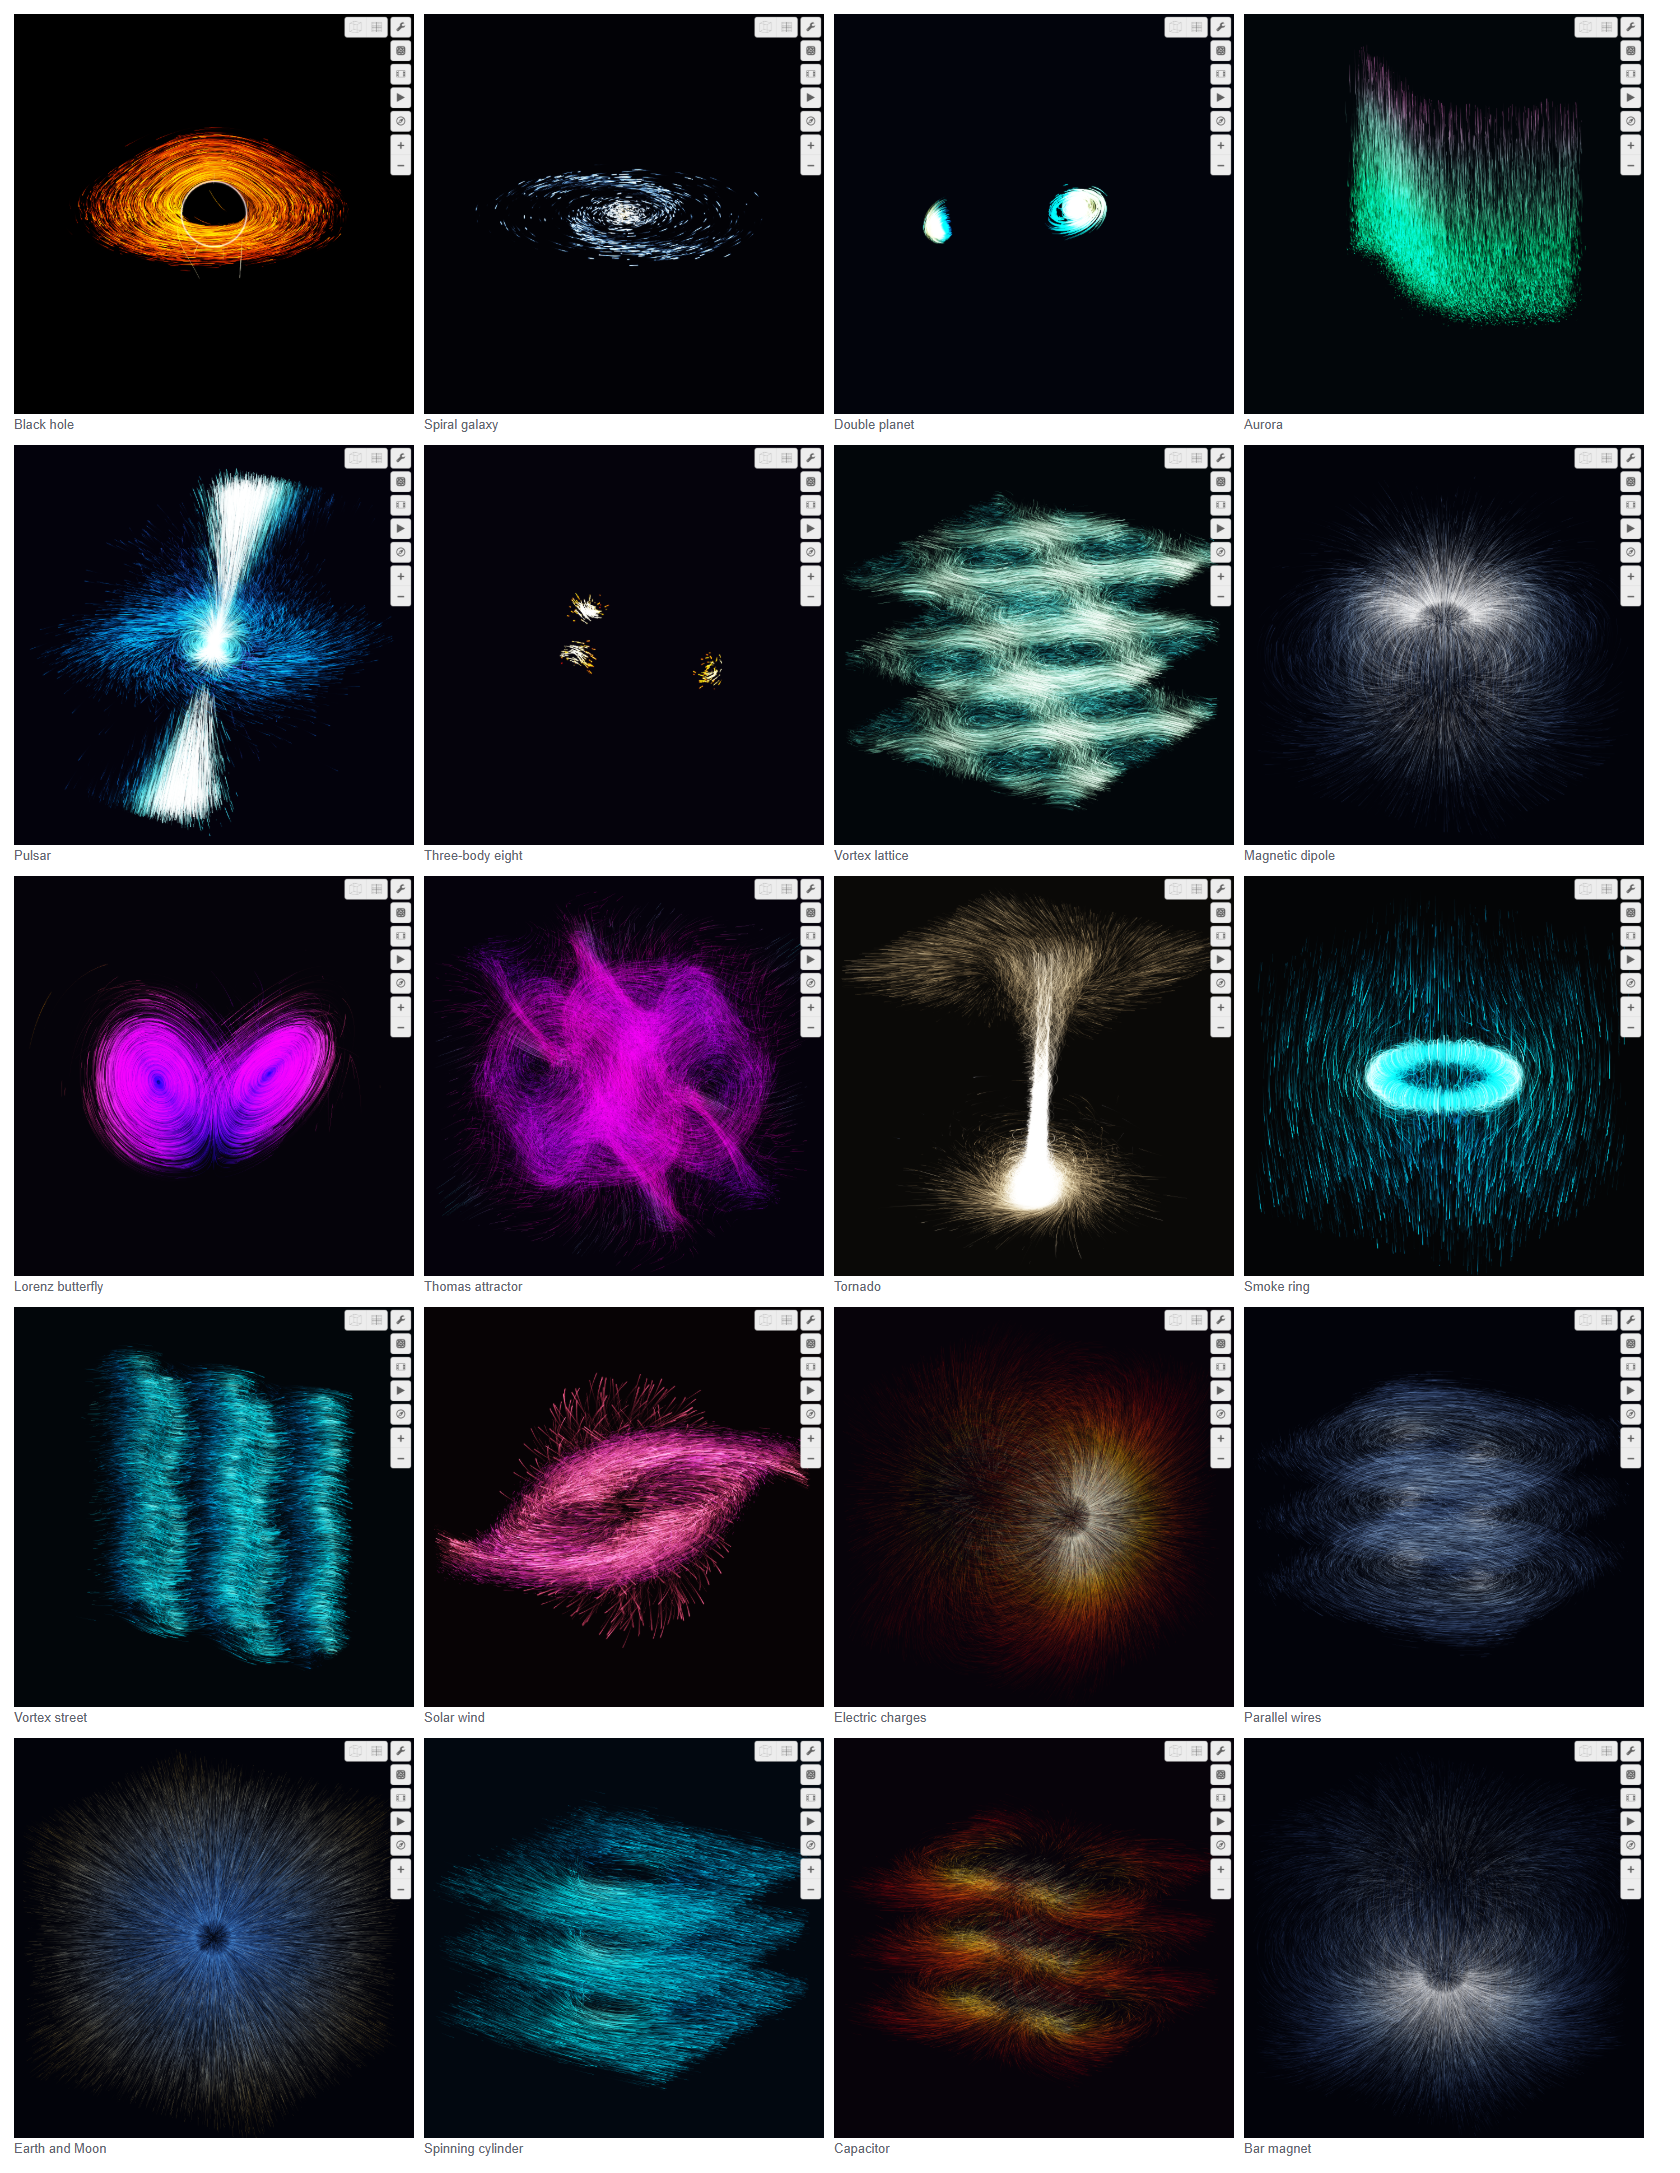
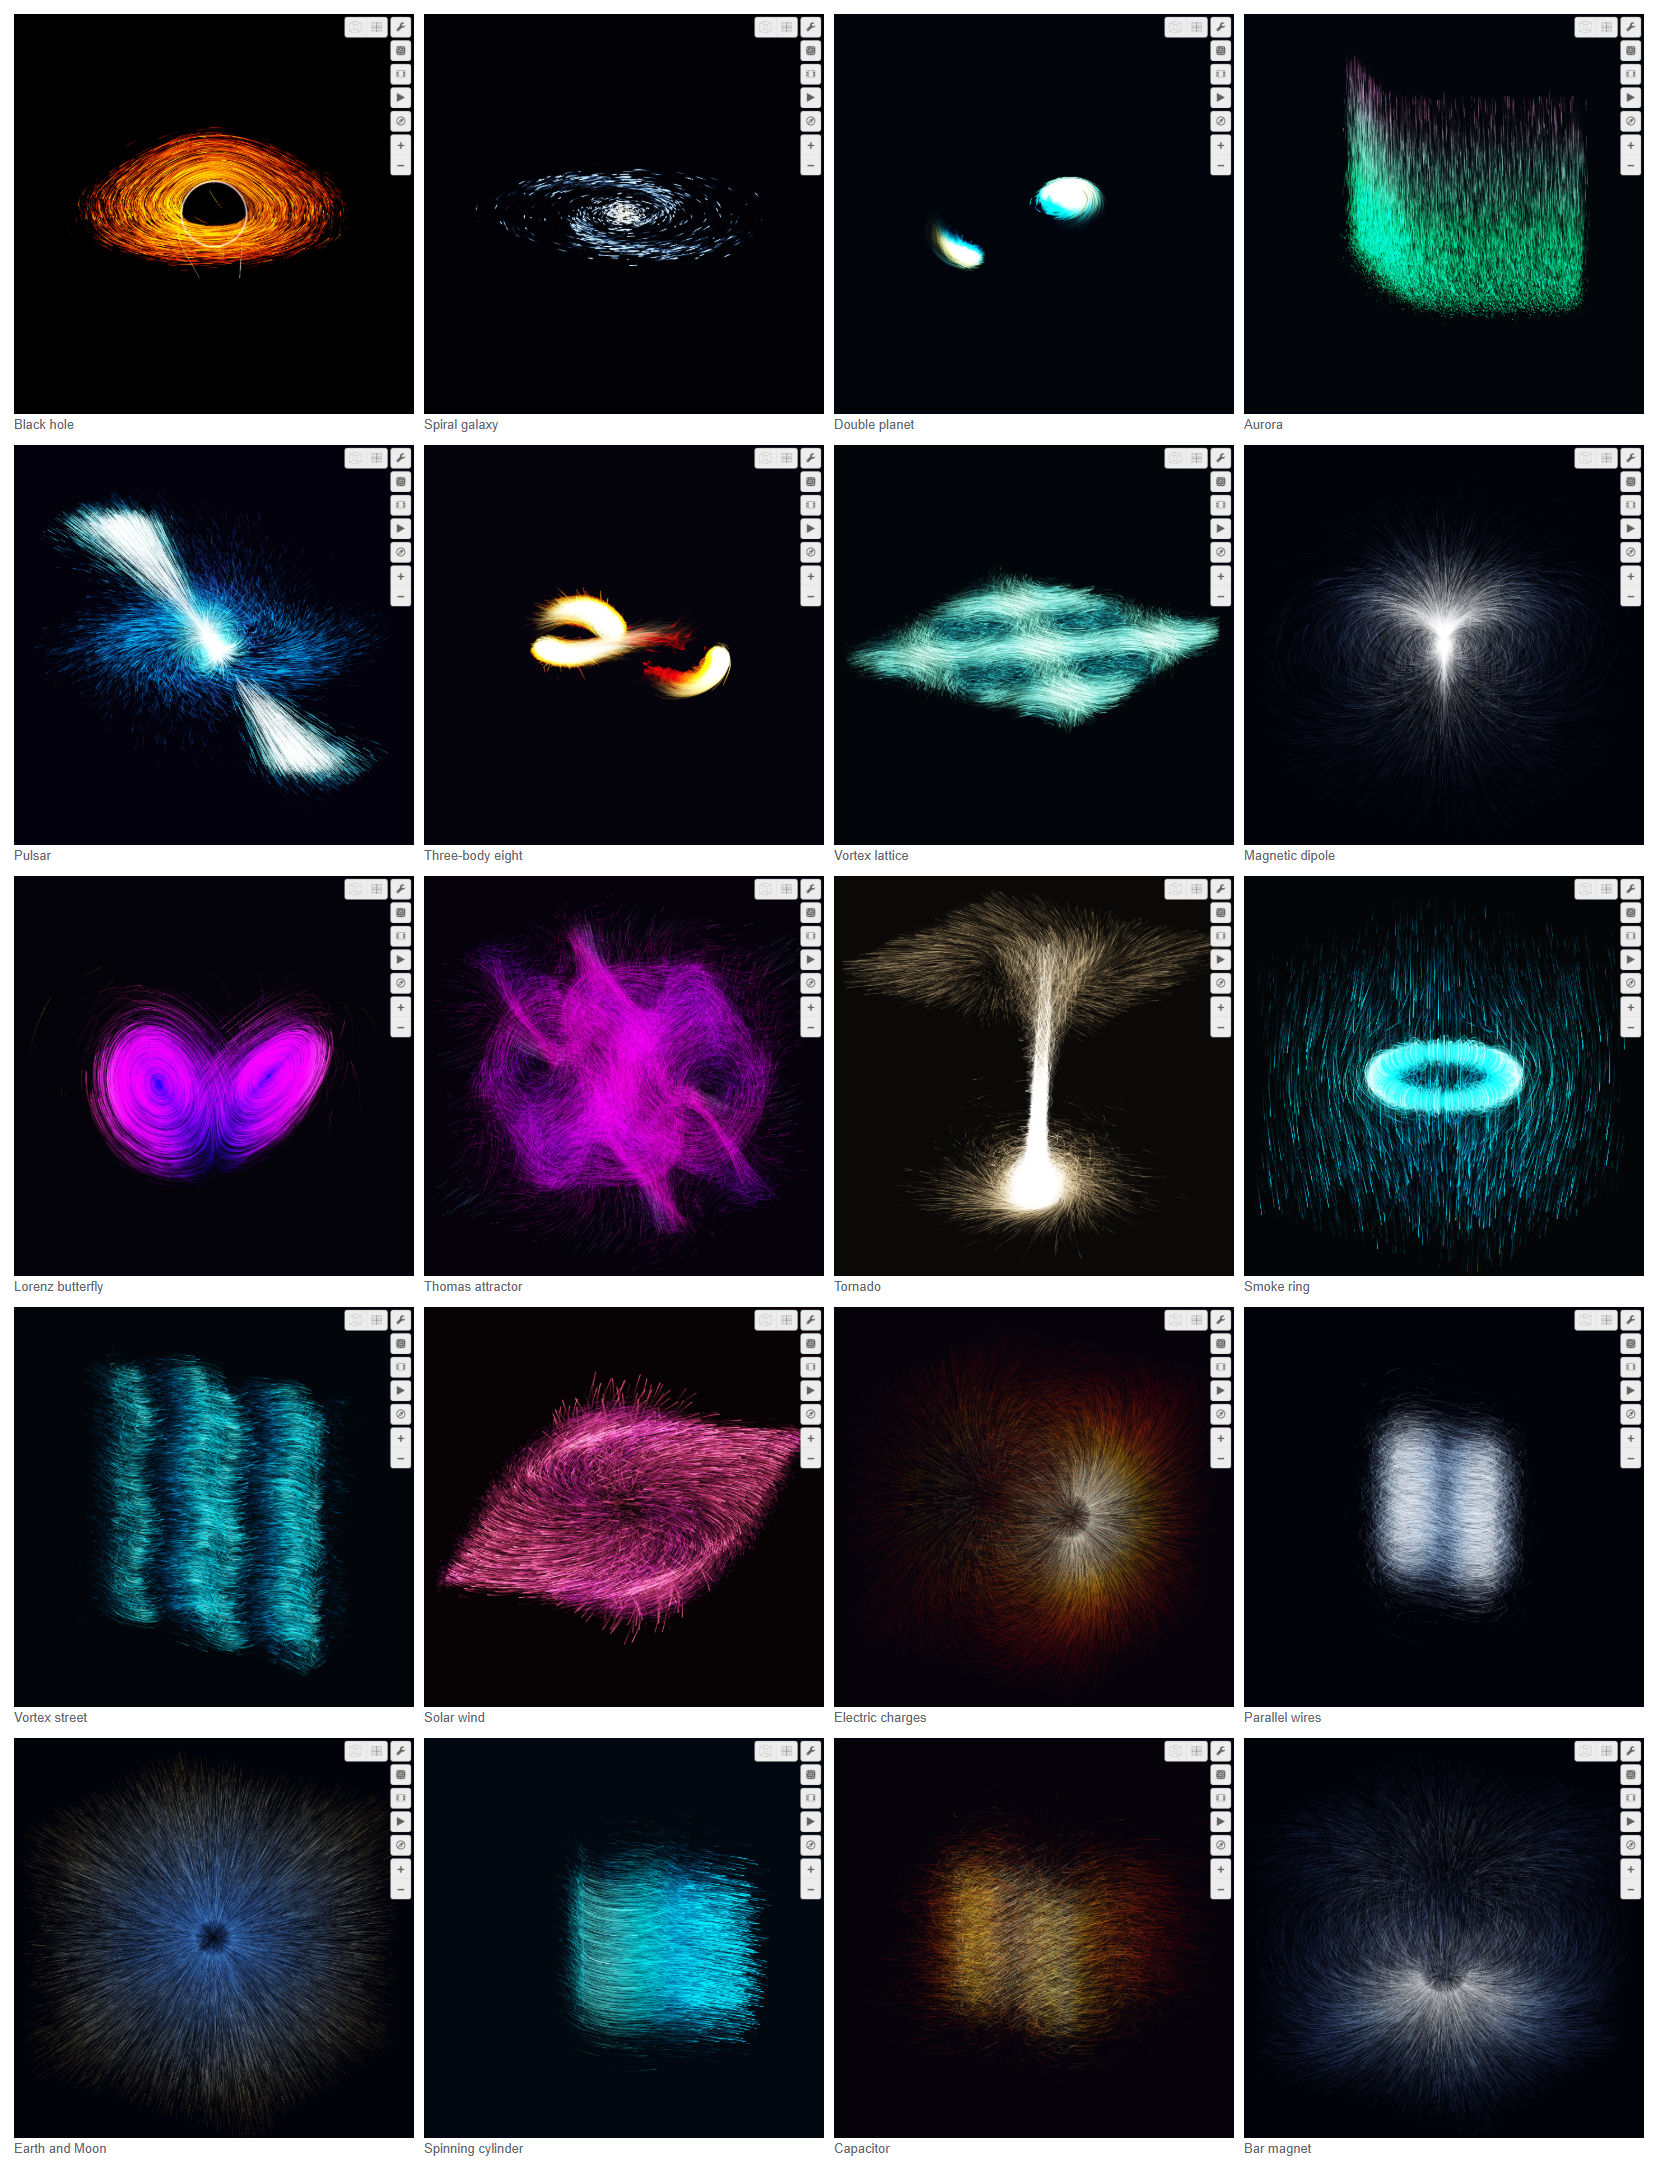
One connected piece of matter in 3D, never stacked slices
Rafael saw stacking in 3D: the wires, the cylinder and the capacitor were
seeded in three thin slices across z, and the vortex lattice's field was
multiplied by cos z, strong in three layers and dead between them, and
seeded in the same three slices. Each read as three stacked copies.

A field the same all along z is now seeded in one connected piece, along
|z| < 2.5 with soft ends, and only where its structure is: a tube of
rings round each wire, a sheet hugging the cylinder, the gap and fringes
of the plates (each following the sliders). Filling the whole length read
as fog. The lattice is the same in every plane across z, each vortex a
tube, seeded as one sheet. The wires and the lattice now read as one
object each; the cylinder and the capacitor are one piece but still need
their solids drawn, which waits on how Desmos objects can show in 3D.

diff --git a/src/field-rendering/gallery/physics.ts b/src/field-rendering/gallery/physics.ts
@@ -227,11 +227,19 @@ const LINES_3D = {
 
 /**
  * For a field the same all along z — long wires, a long cylinder, long
- * plates — matter in three thin slices across it: filling the box drew its
- * lines over each other into a fog, where a few slices show them as the
- * figure in the textbook does, at three depths.
+ * plates — matter in one connected piece, along a length |z| < 2.5 with soft
+ * ends, and only where the field's structure is: a tube of rings round each
+ * wire, a sheet hugging the cylinder, the gap and the fringes of the plates.
+ * So each reads as one long object. Three thin slices across it read as
+ * three stacked copies; the whole box, as fog.
  */
-const SLICES = String.raw`e^{-8z^{2}}+e^{-8\left(z-2.5\right)^{2}}+e^{-8\left(z+2.5\right)^{2}}`;
+const ALONG = String.raw`\frac{1}{1+e^{3\left(\left|z\right|-2.5\right)}}`;
+/** Rings round each wire, a little way out from it. */
+const WIRE_TUBES = String.raw`\left(e^{-4\left(\sqrt{\left(x+\frac{d}{2}\right)^{2}+y^{2}}-0.9\right)^{2}}+e^{-4\left(\sqrt{\left(x-\frac{d}{2}\right)^{2}+y^{2}}-0.9\right)^{2}}\right)${ALONG}`;
+/** A sheet of the stream hugging the cylinder's surface. */
+const CYLINDER_SHEET = String.raw`e^{-\frac{\left(\sqrt{x^{2}+y^{2}}-1.25R\right)^{2}}{0.08R^{2}}}${ALONG}`;
+/** The gap between the plates and the fringes round their ends. */
+const PLATE_GAP = String.raw`\frac{e^{-\frac{y^{2}}{d^{2}}}}{1+e^{3\left(\left|x\right|-L-1\right)}}${ALONG}`;
 
 const v = (
   name: string,
@@ -294,7 +302,7 @@ export const PHYSICS: readonly GalleryPreset[] = [
       xLatex: WIRES.x,
       yLatex: WIRES.y,
       zLatex: WIRES.z,
-      seedLatex: SLICES,
+      seedLatex: WIRE_TUBES,
       variables: [
         v("I_{1}", 1, -5, 5),
         v("I_{2}", 1, -5, 5),
@@ -364,7 +372,7 @@ export const PHYSICS: readonly GalleryPreset[] = [
       xLatex: CYLINDER.x,
       yLatex: CYLINDER.y,
       zLatex: CYLINDER.z,
-      seedLatex: SLICES,
+      seedLatex: CYLINDER_SHEET,
       variables: [v("U", 1, 0, 3), v("R", 1.5, 0.3, 3), v("w", 0.4, -2, 2)],
       look: {
         palette: "ocean",
@@ -402,7 +410,7 @@ export const PHYSICS: readonly GalleryPreset[] = [
       xLatex: CAPACITOR.x,
       yLatex: CAPACITOR.y,
       zLatex: CAPACITOR.z,
-      seedLatex: SLICES,
+      seedLatex: PLATE_GAP,
       variables: [v("s", 1, -3, 3), v("L", 2.5, 0.5, 5), v("d", 2, 0.5, 6)],
       look: { ...LINES_3D, palette: "ember", backdrop: "#07030a" },
     },

diff --git a/src/field-rendering/gallery/fluids.ts b/src/field-rendering/gallery/fluids.ts
@@ -96,12 +96,17 @@ export const FLUIDS: readonly GalleryPreset[] = [
     space: {
       blurb:
         "The 3D Taylor–Green vortex, the standard start of a turbulence simulation: cells that turn one way above and the other way below. It rides a steady current, so the cells sweep past.",
-      xLatex: String.raw`0.5+\sin\left(x-0.5t\right)\cos\left(y\right)\cos\left(z\right)`,
-      yLatex: String.raw`-\cos\left(x-0.5t\right)\sin\left(y\right)\cos\left(z\right)`,
+      // The same in every plane across z: each vortex a tube through the
+      // box. A factor cos z made the flow strong in three layers and dead
+      // between them, which drew as three stacked copies of the lattice.
+      xLatex: String.raw`0.5+\sin\left(x-0.5t\right)\cos\left(y\right)`,
+      yLatex: String.raw`-\cos\left(x-0.5t\right)\sin\left(y\right)`,
       zLatex: String.raw`0`,
       // Three thin layers, at z = 0 and ±π, where the flow is strongest
       // and turns opposite ways; w = 0 keeps each particle in its layer.
-      seedLatex: String.raw`e^{-\frac{z^{2}}{0.08}}+e^{-\frac{\left(z-3.1416\right)^{2}}{0.08}}+e^{-\frac{\left(z+3.1416\right)^{2}}{0.08}}`,
+      // One sheet of the lattice: the cells are the same at every depth, so
+      // one layer shows them, where filling the box hid them in each other.
+      seedLatex: String.raw`e^{-\frac{z^{2}}{0.1}}`,
       look: {
         particles: 40_000,
         speed: 0.3,
